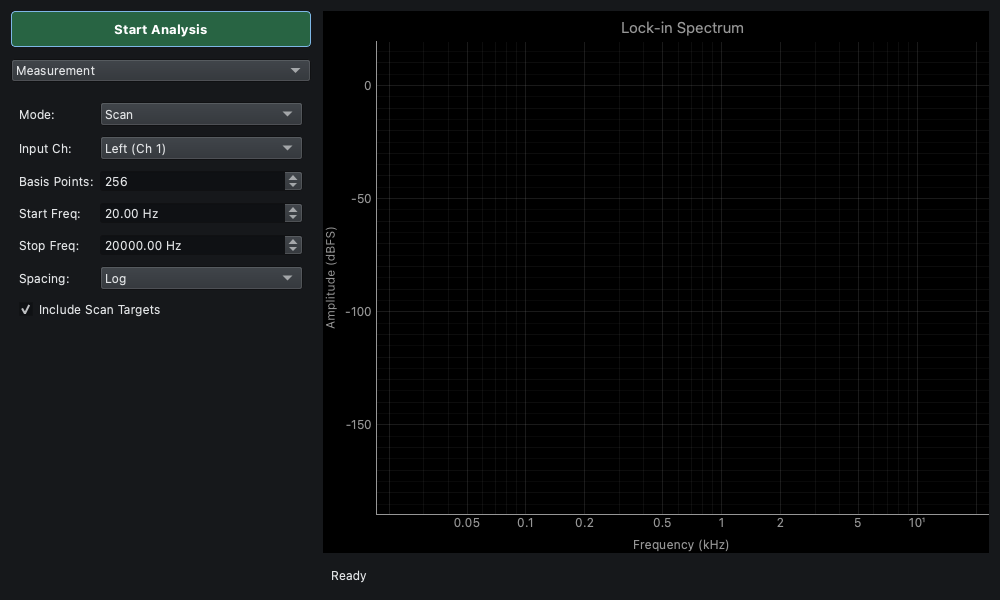
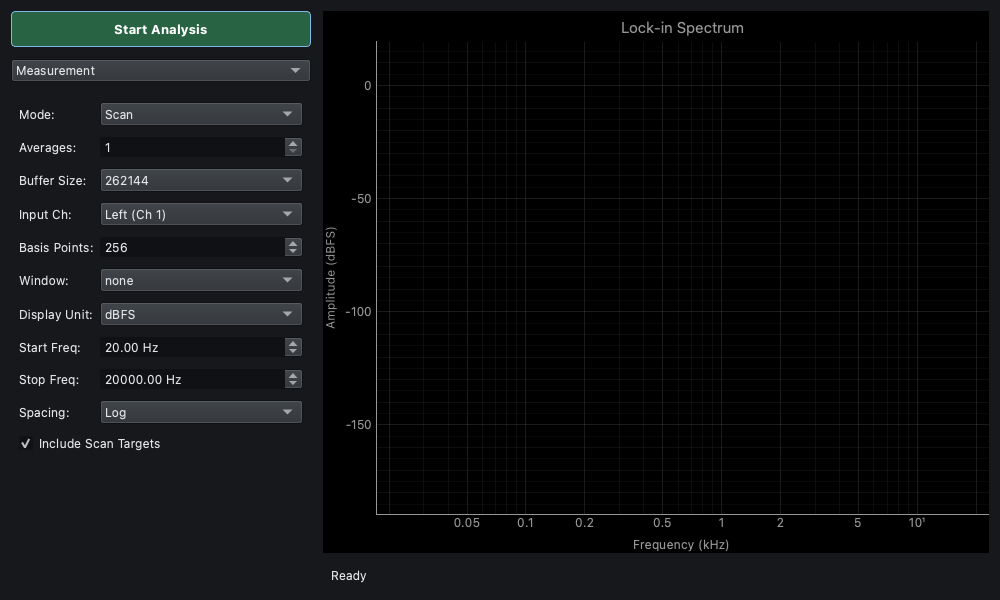
Keep finder measurement and acquisition settings together

diff --git a/src/gui/widgets/lockin_spectrum_finder.py b/src/gui/widgets/lockin_spectrum_finder.py
@@ -1046,11 +1046,6 @@ class LockInSpectrumFinderWidget(QWidget, CompactableWidgetInterface, Splittable
         form.setContentsMargins(8, 8, 8, 8)
         form.setVerticalSpacing(10)
         form.setRowWrapPolicy(QFormLayout.RowWrapPolicy.WrapLongRows)
-        advanced_page = QWidget()
-        advanced_form = QFormLayout(advanced_page)
-        advanced_form.setContentsMargins(8, 8, 8, 8)
-        advanced_form.setVerticalSpacing(10)
-        advanced_form.setRowWrapPolicy(QFormLayout.RowWrapPolicy.WrapLongRows)
 
         self.btn_toggle = QPushButton(tr("Start Analysis"))
         self.btn_toggle.setCheckable(True)
@@ -1074,12 +1069,12 @@ class LockInSpectrumFinderWidget(QWidget, CompactableWidgetInterface, Splittable
         self.spin_averages.setRange(1, 1000)
         self.spin_averages.setValue(1)
         self.spin_averages.valueChanged.connect(self.on_averages_changed)
-        advanced_form.addRow(self.lbl_averages, self.spin_averages)
+        form.addRow(self.lbl_averages, self.spin_averages)
 
         # Buffer size
         self.combo_buffer = QComboBox()
         self._update_buffer_options()
-        advanced_form.addRow(tr("Buffer Size:"), self.combo_buffer)
+        form.addRow(tr("Buffer Size:"), self.combo_buffer)
 
         # Input Channel
         self.combo_input_ch = QComboBox()
@@ -1102,7 +1097,7 @@ class LockInSpectrumFinderWidget(QWidget, CompactableWidgetInterface, Splittable
         self.combo_window.addItems(["none", "blackmanharris", "hann", "hamming"])
         self.combo_window.setCurrentText(self.module.window_type)
         self.combo_window.currentTextChanged.connect(self.on_window_changed)
-        advanced_form.addRow(self.lbl_window, self.combo_window)
+        form.addRow(self.lbl_window, self.combo_window)
 
         # Display Unit
         self.lbl_unit = QLabel(tr("Display Unit:"))
@@ -1110,7 +1105,7 @@ class LockInSpectrumFinderWidget(QWidget, CompactableWidgetInterface, Splittable
         self.combo_unit.addItems(["dBFS", "dBV", "dB SPL"])
         self.combo_unit.setCurrentText(self.module.display_unit)
         self.combo_unit.currentTextChanged.connect(self.on_unit_changed)
-        advanced_form.addRow(self.lbl_unit, self.combo_unit)
+        form.addRow(self.lbl_unit, self.combo_unit)
 
         self.lbl_start_f = QLabel(tr("Start Freq:"))
         self.spin_start_f = QDoubleSpinBox()
@@ -1213,7 +1208,6 @@ class LockInSpectrumFinderWidget(QWidget, CompactableWidgetInterface, Splittable
         self.tabs.currentChanged.connect(self.section_selector.setCurrentIndex)
         left_panel.addWidget(self.section_selector)
         self._add_settings_page(settings_group, tr("Measurement"))
-        self._add_settings_page(advanced_page, tr("Settings"))
 
         # Targets Tab
         target_tab = QWidget()

diff --git a/tests/logic_verification/gui/test_lockin_spectrum_finder_split.py b/tests/logic_verification/gui/test_lockin_spectrum_finder_split.py
@@ -208,6 +208,28 @@ def test_settings_pages_preserve_controls_and_leave_plot_room(lockin_widget, qap
         assert widget.module.points == 320
 
 
+@pytest.mark.parametrize("mode", ["Scan", "Zoom"])
+def test_measurement_and_acquisition_controls_fit_together(lockin_widget, qapp, mode):
+    widget = lockin_widget
+    widget.resize(1000, 600)
+    widget.combo_mode.setCurrentIndex(widget.combo_mode.findData(mode))
+    widget.show()
+    qapp.processEvents()
+    for control in (
+        widget.combo_mode,
+        widget.combo_input_ch,
+        widget.spin_points,
+        widget.spin_averages,
+        widget.combo_buffer,
+        widget.combo_window,
+        widget.combo_unit,
+    ):
+        assert control.isVisible()
+    page = widget.tabs.currentWidget()
+    assert page.horizontalScrollBar().maximum() == 0
+    assert page.verticalScrollBar().maximum() == 0
+
+
 def test_mode_specific_fields_and_status_in_compact_display(lockin_widget, qapp):
     widget = lockin_widget
     widget.show()
@@ -236,7 +258,7 @@ def test_console_action_runs_from_any_page_and_compact_mode(lockin_widget, locki
     dock = InstrumentDockWidget("Finder", 0, "lockin_spectrum_finder")
     dock.set_instrument_widget(lockin_wrapper)
     try:
-        lockin_widget.section_selector.setCurrentIndex(4)
+        lockin_widget.section_selector.setCurrentIndex(lockin_widget.tabs.count() - 1)
         lockin_widget.set_compact_mode(True)
         assert dock._primary_button is not None
         dock._primary_button.click()

diff --git a/docs/widgets/lockin_spectrum_finder.md b/docs/widgets/lockin_spectrum_finder.md
@@ -33,7 +33,7 @@
 
 ## 操作方法
 
-**Start Analysis / Stop Analysis** の下のセレクターで、**Measurement**（モード・入力・点数・周波数範囲）、**Settings**（平均化・バッファ・窓関数・単位）、**Scan Targets**、**Target Generators**、**Audio Sonification** を切り替えます。開始・停止はどのページでも操作できます。小さいウィンドウでは長いページをスクロールできます。
+**Start Analysis / Stop Analysis** の下のセレクターで、**Measurement**（モード・入力・点数・周波数範囲・平均化・バッファ・窓関数・単位）、**Scan Targets**、**Target Generators**、**Audio Sonification** を切り替えます。開始・停止はどのページでも操作できます。小さいウィンドウでは長いページをスクロールできます。
 
 進行状態はグラフの下に表示され、コンパクト表示や分割した表示ウィンドウでも確認できます。オクターブ基準周波数はオクターブ間隔のときだけ、リスト用の対数軸設定は Scan List Only のときだけ表示されます。
 

diff --git a/docs/widgets/lockin_spectrum_finder.en.md b/docs/widgets/lockin_spectrum_finder.en.md
@@ -33,7 +33,7 @@ You can select between two analysis modes based on your needs.
 
 ## Controls & Settings
 
-Use the section selector below **Start Analysis / Stop Analysis** to switch between **Measurement** (mode, input, points and frequency range), **Settings** (averaging, buffer, window and units), **Scan Targets**, **Target Generators**, and **Audio Sonification**. Start/stop remains available on every page. Long pages scroll in small windows.
+Use the section selector below **Start Analysis / Stop Analysis** to switch between **Measurement** (mode, input, points, frequency range, averaging, buffer, window and units), **Scan Targets**, **Target Generators**, and **Audio Sonification**. Start/stop remains available on every page. Long pages scroll in small windows.
 
 Progress appears below the spectrum and remains visible in compact and split display windows. The octave reference is shown only for octave spacing; the list-only logarithmic axis option is shown only for Scan List Only.
 
